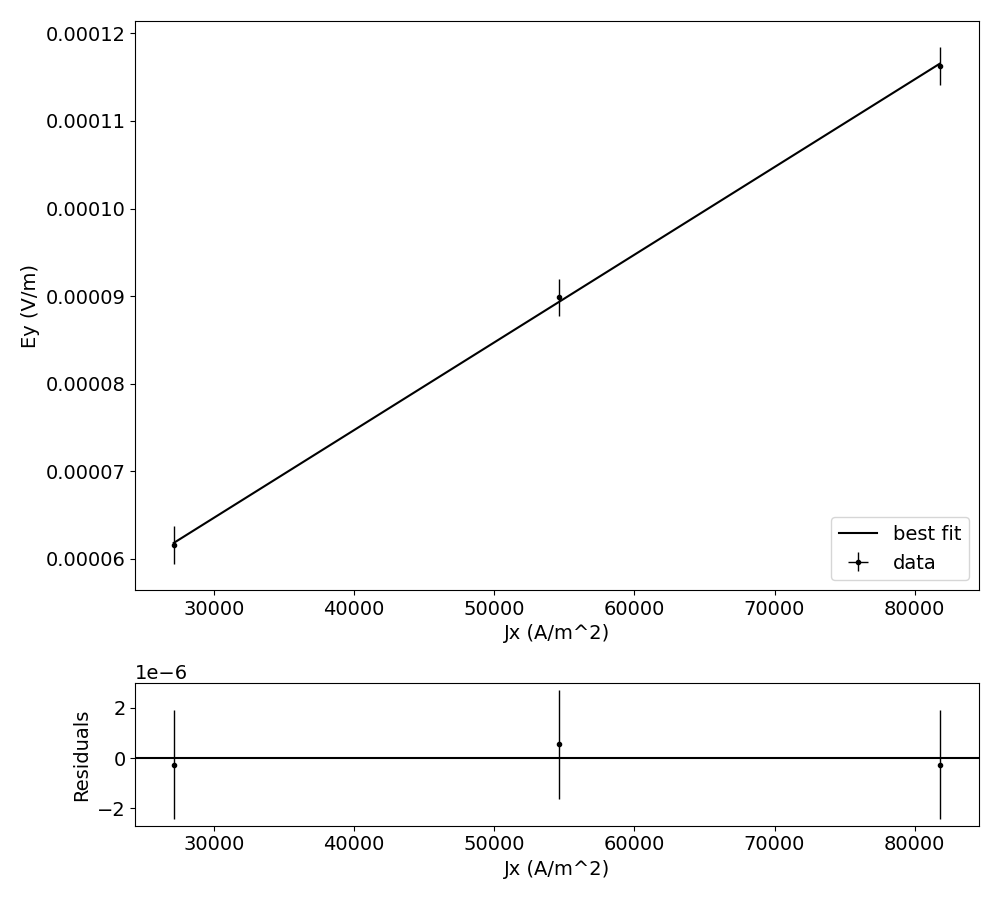
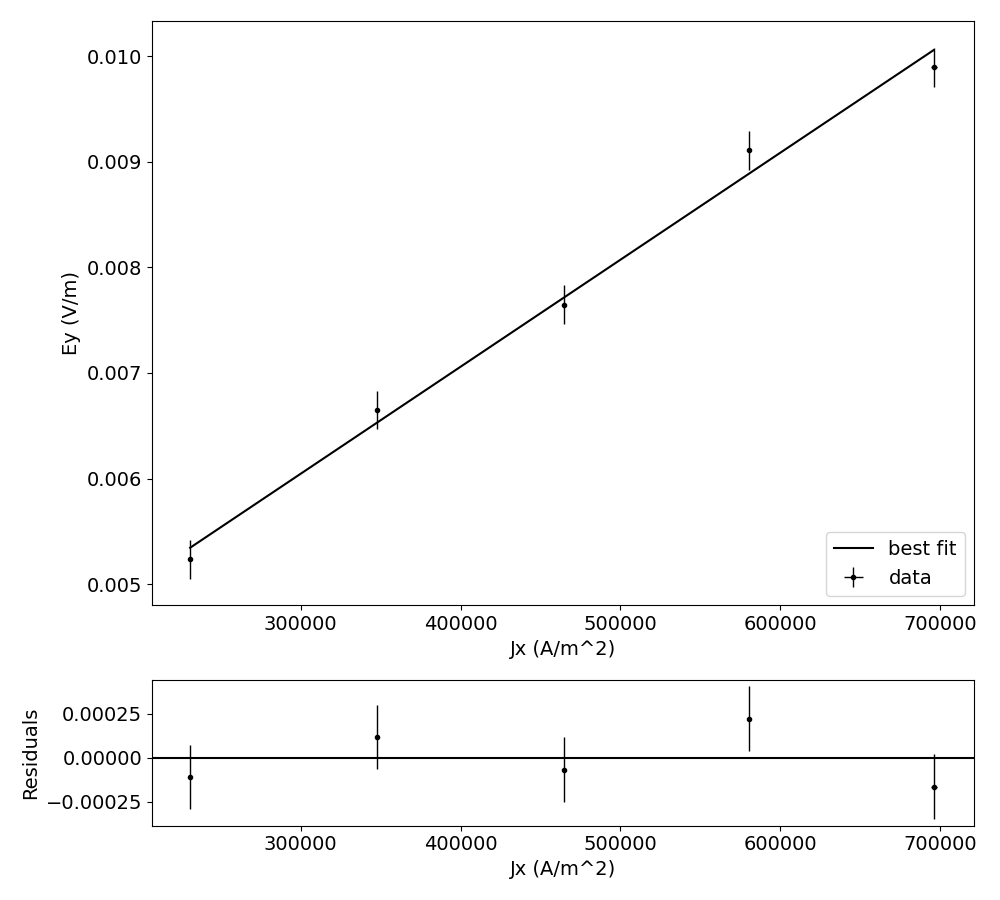
partial lab6

diff --git a/lab6-hall-effect/analysis.py b/lab6-hall-effect/analysis.py
@@ -4,67 +4,113 @@ import numpy as np
 import math
 
 # Define a linear model function
-def linear(x, m,b):
+def linear(x, m, b):
     x = np.array(x)
     return x * m + b
 
 # Dimensions 
-width = 16.25e-2     # meters
-width_err = 0.005e-2 # meters
+width = 2.37e-3       # meters
+width_err = 0.005e-3  # meters
 
 # Calculate thickness 
-thickness = (2 / 26.15e-2) * 2945E-10   # meters
-thickness_err = tools.error_mult(2945E-10, 2 / 26.15e-2, 0, 0.005e-2, sol=thickness)
+seperation = (89.65E-3/8)  # meters
+seperation_err = (0.005E-3)/8  # meters
 
-# Currents and voltages 
-currents = [9.93, 14.96, 19.98, 24.97, 29.95]  # in mA
+step_size = 2.89E-3
+step_size_err = 0.005E-3  # meters
+
+thickness = step_size / seperation * 2945E-10 
+
+
+thickness_err = tools.error_mult(step_size, seperation, step_size_err, seperation_err, sol=thickness)
+
+thickness_err *= 2945E-10  
+
+# Currents and voltages as dictionaries:
+# Here the key (e.g., 1148) may represent the applied field (in mT) for which the measurements were made.
+currents = {
+    1148: [31.04, 24.57, 20.5, 14.95, 9.76],
+    900: [29.96,24.88,20.22,14.63,9.75],  # in mA
+    645: [30.22,24.88,20.22,14.63,9.75]
+}
 
 voltages = {
-    569: [0.0073,0.0089,0.0096,0.011,0.0111],  # in mV
-    961: [0.01,0.0127,0.0146,0.0174,0.0189],
-    1136: [0.0109,0.0143,0.0168,0.0198,0.0223]
+    1148: [0.0229, 0.0186, 0.0152, 0.0115, 0.0074],
+    900: [0.0202,0.0162,0.0123,0.0081,0.004], # in mV
+    645: [0.0136,0.0111,0.0085,0.0055,0.0028]
 }
 
 # Compute sheet current density Jx from currents (convert mA to A)
-Jx = [i * 1E-3 / (width * thickness) for i in currents]
-Jx_err = [tools.error_mult(width, thickness, width_err, thickness_err, sol=i * 1E-3 / (width * thickness)) for i in currents]
+# Jx = I/(width*thickness)
+Jx = {}
+Jx_err = {}
+for key in currents.keys():
+    Jx[key] = [i * 1E-3 / (width * thickness) for i in currents[key]]
+    Jx_err[key] = [tools.error_mult(width, thickness, width_err, thickness_err,
+                                     sol=i * 1E-3 / (width * thickness))
+                                     for i in currents[key]]
 
 # Compute the transverse electric field, Ey
+# Convert voltage from mV to V and divide by width.
 E_y = {}
 for key in voltages.keys():
     E_y[key] = [v * 1E-3 / width for v in voltages[key]]
 
-# Propagate uncertainty in Ey
+# Propagate uncertainty in Ey (assume uncertainty in voltage is given via a fixed value, here 0.00035E-3 for example)
 E_y_err = {}
 for key in voltages.keys():
-    E_y_err[key] = [tools.error_mult(v * 1E-3, width, 0.00035E-3, width_err, sol=v * 1E-3 / width) for v in voltages[key]]
+    E_y_err[key] = [tools.error_mult(v * 1E-3, width, 0.0002E-3, width_err,
+                                     sol=v * 1E-3 / width)
+                                     for v in voltages[key]]
 
+# Perform fits and compute chi-squared values for each applied field:
 m = {}
 chi2 = {}
 red_chi2 = {}
+rmse = {}
+r2 = {}
 for key in voltages.keys():
-    popt, perr = bb.plot_fit(linear, Jx, E_y[key], Jx_err, E_y_err[key],
-                             init_guess=[1E-11,0], 
+    popt, perr = bb.plot_fit(linear, Jx[key], E_y[key], Jx_err[key], E_y_err[key],
+                             init_guess=[1E-11, 0], 
                              xlabel="Jx (A/m^2)",
                              ylabel="Ey (V/m)",
                              filename="graph" + str(key) + ".png")
-    m[key] = popt
-
-    pred = linear(Jx, m[key][0], m[key][1])
+    m[key] = popt  # popt contains [m, b]
+    
+    pred = linear(Jx[key], m[key][0], m[key][1])
     chi2[key] = tools.chi_squared(np.array(E_y[key]), pred, np.array(E_y_err[key]))
-    red_chi2[key] = tools.reduced_chi_squared(chi2[key], 1, len(Jx) - 1)
+    # Degrees of freedom = (number of data points) - (number of fitted parameters)
+    red_chi2[key] = tools.reduced_chi_squared(chi2[key], 2, len(Jx[key]) )
+    rmse[key] = tools.rmse(np.array(E_y[key]), pred)
+    #r squared
+    r2[key] = tools.r_sq(np.array(E_y[key]), pred)
     print(f"For applied field {key} mT:")
     print(f"    Best fit m = {m[key][0]:.3e} +/- {perr[0]:.3e} V m/A")
     print(f"    Chi squared: {chi2[key]:.2f}")
     print(f"    Reduced chi squared: {red_chi2[key]:.2f}")
+    print(f"    RMSE: {rmse[key]:.3e} V/m")
+    print(f"    R^2: {r2[key]:.3f}")
 
-# Calculate Rh
+
+# Calculate Rh for each applied field (key assumed in mT; convert to T)
 Rh = []
 for key in voltages.keys():
-    Rh_value = m[key][0] / (key * 10**-3)  # Convert key from mT to T
+    Rh_value = m[key][0] / (key * 1E-3) 
     Rh.append(Rh_value)
     print(f"Rh for {key} mT: {Rh_value:.3e} m^3/C")
-# Average Rh and compute uncertainty
+
+# Average Rh and compute standard error of the mean
 Rh_mean = np.mean(Rh)
-Rh_std = np.std(Rh, ddof=1) / np.sqrt(len(Rh))  # Standard error of the mean
+Rh_std = np.std(Rh, ddof=1) / np.sqrt(len(Rh))
 print(f"Average Rh: {Rh_mean:.3e} +/- {Rh_std:.3e} m^3/C")
+
+lit_rh = 8.9E-11  # m^3/C
+
+# Calculate percent difference between average Rh and literature value
+percent_diff = 100 * abs(Rh_mean - lit_rh) / lit_rh
+print(f"Percent difference: {percent_diff:.2f}%")
+
+# Calculate percent error in Rh
+percent_error = 100 * Rh_std / Rh_mean
+print(f"Percent error: {percent_error:.2f}%")
+

diff --git a/lab6-hall-effect/analysis2.py b/lab6-hall-effect/analysis2.py
@@ -1,0 +1,76 @@
+import tools
+import fit_black_box as bb
+import numpy as np
+import math
+
+# Define a linear model function
+def linear(x, m,b):
+    x = np.array(x)
+    return x * m + b
+
+# Dimensions 
+width = 2.37e-3     # meters
+width_err = 0.005e-3 # meters
+
+# Calculate thickness 
+seperation = (8 / 89.65)  # meters
+step_size = 1.28
+
+thickness = step_size*seperation * 2945E-10 
+thickness_err = tools.error_mult(2945E-10, 8 / 89.65, 0, 0.005, sol=thickness)
+
+# Currents and voltages 
+currents = [31.04,24.57,20.5,14.95,9.76]  # in mA
+
+voltages = {
+    1148: [0.0229,0.0186,0.0152,0.0115,0.0074],  # in mV
+}
+
+# Compute sheet current density Jx from currents (convert mA to A)
+Jx = [i * 1E-3 / (width * thickness) for i in currents]
+Jx_err = [tools.error_mult(width, thickness, width_err, thickness_err, sol=i * 1E-3 / (width * thickness)) for i in currents]
+
+# Compute the transverse electric field, Ey
+E_y = {}
+for key in voltages.keys():
+    E_y[key] = [v * 1E-3 / width for v in voltages[key]]
+
+# Propagate uncertainty in Ey
+E_y_err = {}
+for key in voltages.keys():
+    E_y_err[key] = [tools.error_mult(v * 1E-3, width, 0.00035E-3, width_err, sol=v * 1E-3 / width) for v in voltages[key]]
+
+m = {}
+chi2 = {}
+red_chi2 = {}
+for key in voltages.keys():
+    popt, perr = bb.plot_fit(linear, Jx, E_y[key], Jx_err, E_y_err[key],
+                             init_guess=[1E-11,0], 
+                             xlabel="Jx (A/m^2)",
+                             ylabel="Ey (V/m)",
+                             filename="graph" + str(key) + ".png")
+    m[key] = popt
+
+    pred = linear(Jx, m[key][0], m[key][1])
+    chi2[key] = tools.chi_squared(np.array(E_y[key]), pred, np.array(E_y_err[key]))
+    red_chi2[key] = tools.reduced_chi_squared(chi2[key], 1, len(Jx) - 1)
+    print(f"For applied field {key} mT:")
+    print(f"    Best fit m = {m[key][0]:.3e} +/- {perr[0]:.3e} V m/A")
+    print(f"    Chi squared: {chi2[key]:.2f}")
+    print(f"    Reduced chi squared: {red_chi2[key]:.2f}")
+
+# Calculate Rh
+Rh = []
+for key in voltages.keys():
+    Rh_value = m[key][0] / (key * 10**-3)  # Convert key from mT to T
+    Rh.append(Rh_value)
+    print(f"Rh for {key} mT: {Rh_value:.3e} m^3/C")
+# Average Rh and compute uncertainty
+Rh_mean = np.mean(Rh)
+Rh_std = np.std(Rh, ddof=1) / np.sqrt(len(Rh))  # Standard error of the mean
+print(f"Average Rh: {Rh_mean:.3e} +/- {Rh_std:.3e} m^3/C")
+
+
+
+
+
